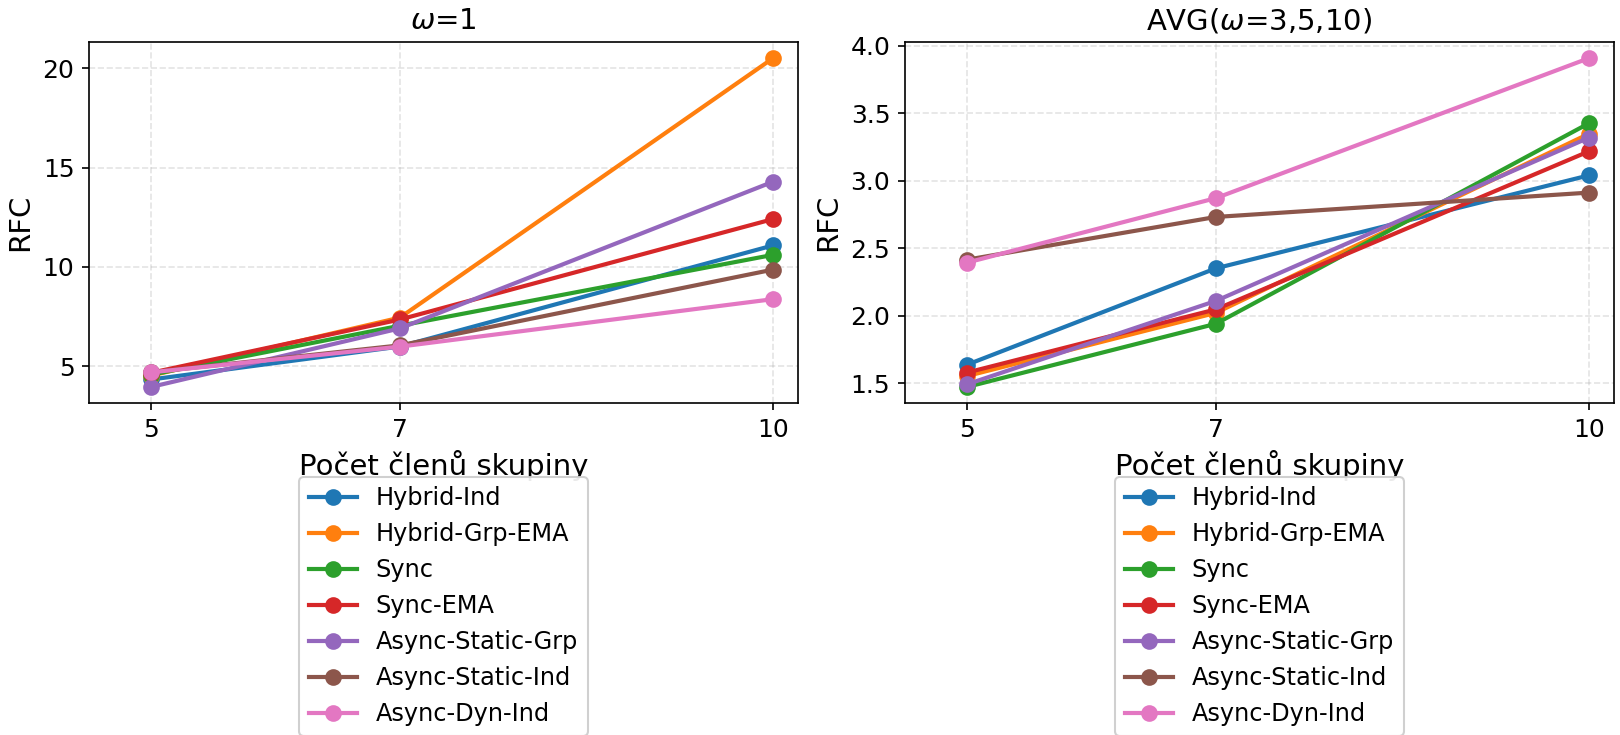
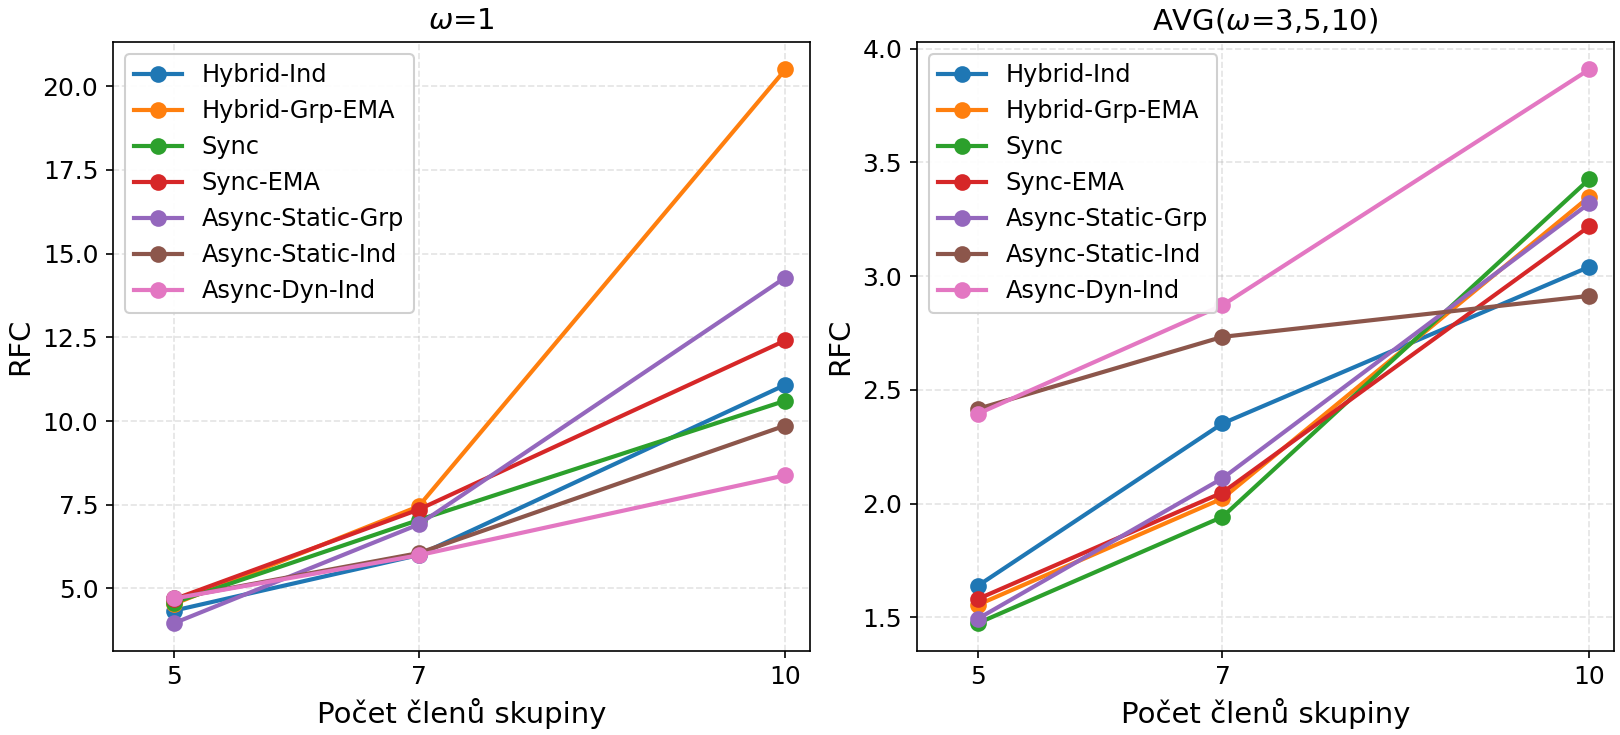
clean up

diff --git a/utils/config.py b/utils/config.py
@@ -2,14 +2,18 @@ from pathlib import Path
 import os
 import pickle
 
-def find_project_root(marker="img") -> Path:
+
+def find_project_root(markers=("docs", "img")) -> Path:
     current = Path(__file__).resolve()
     for parent in current.parents:
-        if (parent / marker).exists():
-            return parent
-    raise RuntimeError(f"Project root not found (no {marker}/ folder above {__file__})")
+        for marker in markers:
+            if (parent / marker).exists():
+                return parent
+    joined = ", ".join(markers)
+    raise RuntimeError(f"Project root not found (no {joined}/ folder above {__file__})")
 
-THESIS_PROJECT_ROOT = find_project_root("img") # first directory that contains the img dir
+
+THESIS_PROJECT_ROOT = find_project_root()  # first directory that contains docs/ or img/
 # If we're already in the analysis repo, avoid appending /analysis again.
 ANALYSIS_PROJECT_ROOT = (
     THESIS_PROJECT_ROOT
@@ -17,7 +21,7 @@ ANALYSIS_PROJECT_ROOT = (
     else THESIS_PROJECT_ROOT / "analysis"
 )
 
-IMG_OUTPUT_PATH = THESIS_PROJECT_ROOT / "img"
+IMG_OUTPUT_PATH = THESIS_PROJECT_ROOT / "docs" / "img"
 
 CACHE_FILES_DIR = ANALYSIS_PROJECT_ROOT / "cache"
 

diff --git a/evaluation_frameworks/consensus_evaluation/evaluation/evaluations/print/plot_rfc_large_group_size.py b/evaluation_frameworks/consensus_evaluation/evaluation/evaluations/print/plot_rfc_large_group_size.py
@@ -51,7 +51,7 @@ def _default_out_path(windows: Sequence[int], output_format: str) -> Path:
         stem = f"rfc_large_group_size_w{windows[0]}"
     else:
         stem = "rfc_large_group_size_all_windows"
-    return _repo_root() / "img" / f"{stem}.{output_format}"
+    return _repo_root() / "docs" / "img" / f"{stem}.{output_format}"
 
 
 def _plot_one_axis(
@@ -193,16 +193,14 @@ def plot_rfc_large_group_size(
         ax1.tick_params(axis="y", labelleft=True)
         ax2.tick_params(axis="y", labelleft=True)
         ax1.legend(
-            loc="upper center",
-            bbox_to_anchor=(0.5, -0.17),
+            loc="best",
             fontsize=LEGEND_FONTSIZE,
             ncol=1,
             framealpha=0.92,
             title_fontsize=LEGEND_TITLE_FONTSIZE,
         )
         ax2.legend(
-            loc="upper center",
-            bbox_to_anchor=(0.5, -0.17),
+            loc="best",
             fontsize=LEGEND_FONTSIZE,
             ncol=1,
             framealpha=0.92,

diff --git a/evaluation_frameworks/consensus_evaluation/evaluation/evaluations/print/plot_best_families_by_window.py b/evaluation_frameworks/consensus_evaluation/evaluation/evaluations/print/plot_best_families_by_window.py
@@ -30,7 +30,7 @@ DEFAULT_GROUP_TYPES = ["similar", "outlier", "random", "divergent", "variance"]
 
 def _default_img_dir() -> Path:
     repo_root = Path(__file__).resolve().parents[5]
-    return repo_root / "img"
+    return repo_root / "docs" / "img"
 
 
 def _bias_key_to_float(v: Any) -> Any:
@@ -170,12 +170,12 @@ def main() -> None:
     parser.add_argument(
         "--output",
         default=None,
-        help="Optional output file path (.png preferred). If omitted, saves to <repo>/img/.",
+        help="Optional output file path (.png preferred). If omitted, saves to <repo>/docs/img/.",
     )
     parser.add_argument(
         "--img-dir",
         default=None,
-        help="Directory used when --output is omitted (default: <repo>/img).",
+        help="Directory used when --output is omitted (default: <repo>/docs/img).",
     )
     parser.add_argument(
         "--output-stem",

diff --git a/evaluation_frameworks/consensus_evaluation/evaluation/evaluations/print/plot_success_rate_by_bias.py b/evaluation_frameworks/consensus_evaluation/evaluation/evaluations/print/plot_success_rate_by_bias.py
@@ -65,7 +65,7 @@ def _default_out_path(windows: Sequence[int], output_format: str) -> Path:
         stem = f"success_rate_w{windows[0]}_bias"
     else:
         stem = "success_rate_all_windows_bias"
-    return _repo_root() / "img" / f"{stem}.{output_format}"
+    return _repo_root() / "docs" / "img" / f"{stem}.{output_format}"
 
 
 def success_ratios_for_algo(

diff --git a/dataset/README.md b/dataset/README.md
@@ -1,0 +1,67 @@
+# Dataset layout and usage
+
+This project expects MovieLens data under `dataset/` in the following structure:
+
+```text
+dataset/
+  data_access.py
+  ml-1m/
+    movies.csv
+    ratings.csv
+    ... (optional local extras)
+  ml-32m/
+    movies.csv
+    ratings.csv
+    README.txt
+    checksums.txt
+    ... (optional: tags.csv, links.csv)
+```
+
+## Which files are required
+
+- `movies.csv` and `ratings.csv` are required by `MovieLensDatasetLoader`.
+- `tags.csv` and `links.csv` are optional for this repo (kept for reference).
+- For large datasets, `ml-32m/sparse-cached-ml-32m.pkl` can be created automatically when using sparse cache mode.
+
+## `data_access.py` quick start
+
+Import:
+
+```python
+from dataset.data_access import MovieLensDatasetLoader
+```
+
+### 1) Dense matrix load (small data, e.g. `ml-1m`)
+
+```python
+loader = MovieLensDatasetLoader(dataset_dir="ml-1m", movies_file="movies.csv", ratings_file="ratings.csv")
+movies_df, ratings_df = loader.load_data(fill_zeroes=False)
+```
+
+- `movies_df`: movie metadata (`movieId`, `title`, `genres`)
+- `ratings_df`: pivot matrix (`userId` x `movieId`)
+- Warning: dense matrix is memory-heavy; do not use for `ml-32m`.
+
+### 2) Sparse load (recommended for `ml-32m`)
+
+```python
+loader = MovieLensDatasetLoader(dataset_dir="ml-32m", movies_file="movies.csv", ratings_file="ratings.csv")
+movies_df, ratings_csr, user_id_map, movie_id_map = loader.load_sparse_ratings(use_cache=True)
+```
+
+- `ratings_csr`: `scipy.sparse.csr_matrix` (`users x movies`)
+- `user_id_map`: sparse row index -> real `userId`
+- `movie_id_map`: sparse col index -> real `movieId`
+- `use_cache=True`: reads/writes `sparse-cached-<dataset>.pkl` in the same dataset folder
+
+### 3) Optional filtering/splitting helpers
+
+- `filter_csr_by_interaction_thresholds(...)`
+- `split_csr_train_val_test(...)`
+- `split_csr_by_users_full_mapping(...)`
+- `get_surprise_trainset()` (after `load_data()`)
+
+## Notes
+
+- Paths in `MovieLensDatasetLoader` are resolved relative to the `dataset/` directory.
+- The old script `load_dataset_OBSOLETE.py` is not used anymore and has been removed.
